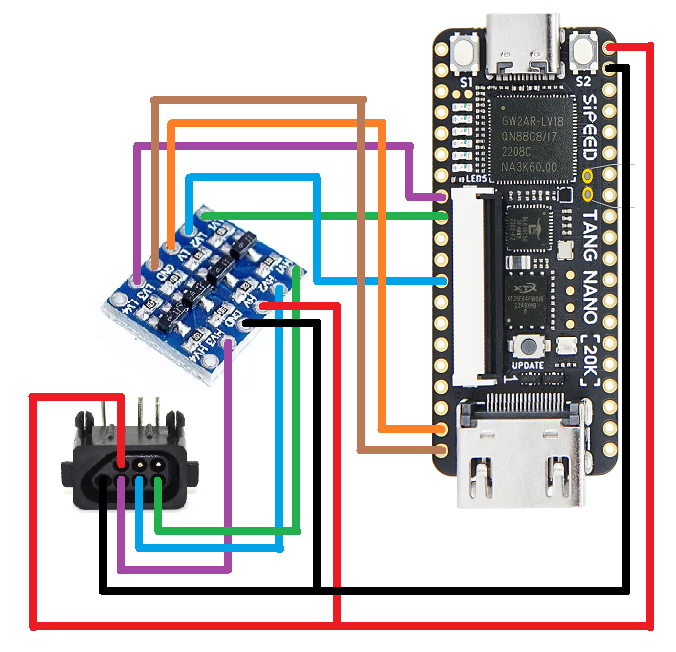
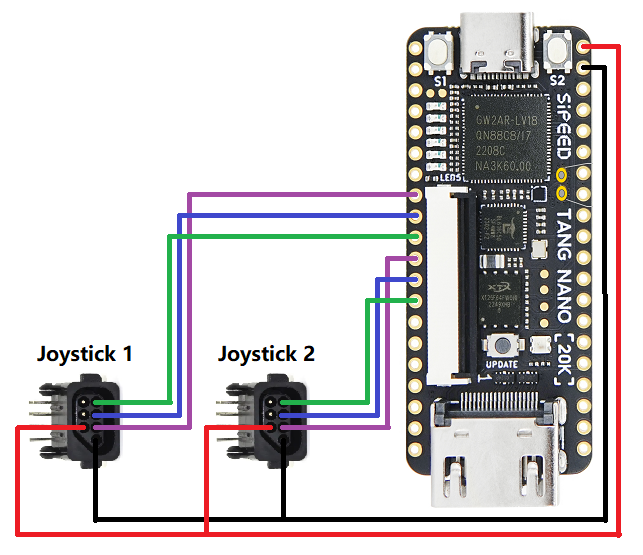
- Update docu to not use level shifter
- Add gamepad#2

diff --git a/doc/NESGamepad.md b/doc/NESGamepad.md
@@ -1,16 +1,33 @@
 
 # Original NES Gamepad Setup
 
-NESTang since 0.9(check with @nand2mario) supports Original NES Gamepads (only player 1 right now), also supporting 8BitDo gamepads.
+NESTang since 0.9(check with @nand2mario) supports Original NES Gamepads, also supporting 8BitDo gamepads.
 
-## Requirements
+## No Level-Shifter
+
+This setup was tested using an [8BitDo N30 2.4g wireless gamepad for original NES](https://www.8bitdo.com/n30-wireless-for-original-nes/). After some testing, this controller setup does not require a 3V3<->5V level shifter and can be directly connected to the FPGA IOs.
+
+### Requirements
+
+- An original NES Gamepad
+- Wires
+
+### Wiring diagram
+
+<img src="images/NESGamepad_wiring.png" width=400>
+
+
+## Level-Shifter
+
+In some cases, although not tested, probably cases such as original NES/Famicom controllers, TTL5V signals might be needed for correct functionality. In this case, a LVCMOS3V3<->TTL5V level shifter is needed.
+
+### Requirements
 
 - An original NES Gamepad
 - Wires
 - [4 Channels IIC I2C Logic Level Shifter Bi-Directional Module](https://www.aliexpress.com/item/1005004225321778.html?spm=a2g0o.order_list.order_list_main.27.22111802nFvcM9)
     - This is needed because NESTang has Low Voltage CMOS 3.3V signals and NES Gamepad uses 5V TTL logic.
 
-## Wiring diagram
+### Wiring diagram
 
-<img src="images/NESGamepad_wiring.png" width=400>
-
+<img src="images/NESGamepad_wiring_levelShifter.png" width=400>
